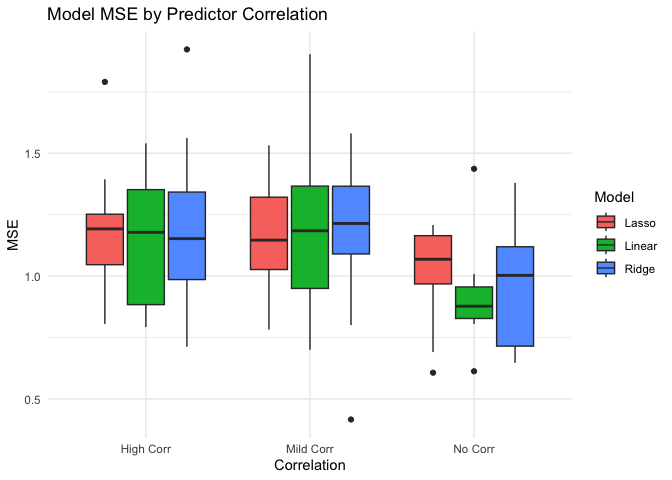
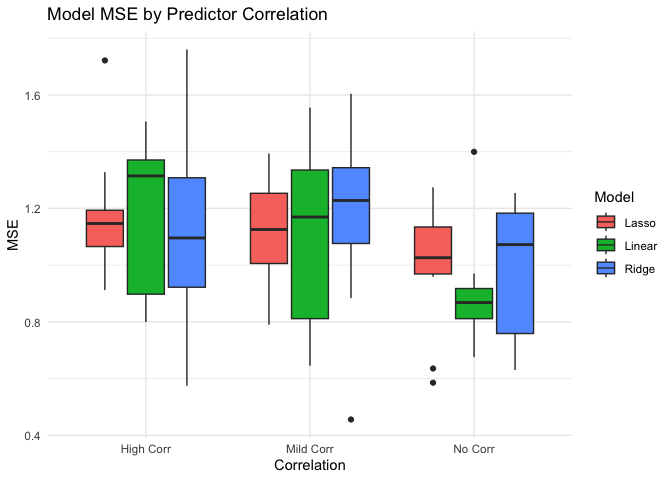
md update MCsimR

diff --git a/MCsimR.md b/MCsimR.md
@@ -54,7 +54,7 @@ set.seed(111)
 ``` r
 generate_data <- function(n = 100, correlation = 0.0) {
   sigma <- matrix(c(1, correlation, correlation, 1), nrow = 2)
-  predictors <- MASS::mvrnorm(n, mu = c(0, 0), Sigma = sigma)
+  predictors <- mvtnorm::rmvnorm(n, mean = c(0, 0), sigma = sigma, method = "eigen")
   x1 <- predictors[, 1]
   x2 <- predictors[, 2]
   noise <- rnorm(n)
@@ -125,15 +125,15 @@ summary
     # A tibble: 9 × 4
       Model  label     Mean_MSE SD_MSE
       <chr>  <chr>        <dbl>  <dbl>
-    1 Lasso  High Corr    1.19   0.276
-    2 Lasso  Mild Corr    1.14   0.245
-    3 Lasso  No Corr      1.01   0.208
-    4 Linear High Corr    1.14   0.269
-    5 Linear Mild Corr    1.18   0.377
-    6 Linear No Corr      0.918  0.212
-    7 Ridge  High Corr    1.19   0.367
-    8 Ridge  Mild Corr    1.16   0.341
-    9 Ridge  No Corr      0.956  0.244
+    1 Lasso  High Corr    1.17   0.231
+    2 Lasso  Mild Corr    1.11   0.211
+    3 Lasso  No Corr      0.992  0.222
+    4 Linear High Corr    1.17   0.269
+    5 Linear Mild Corr    1.12   0.326
+    6 Linear No Corr      0.900  0.194
+    7 Ridge  High Corr    1.15   0.369
+    8 Ridge  Mild Corr    1.18   0.330
+    9 Ridge  No Corr      0.982  0.237
 
 ## Visualization (Optional)
 
@@ -145,3 +145,82 @@ ggplot(results, aes(x = label, y = MSE, fill = Model)) +
 ```
 
 ![](MCsimR.markdown_strict_files/figure-markdown_strict/unnamed-chunk-5-1.png)
+
+## Statistical comparison of results
+
+``` r
+alpha <- 0.05
+
+# Fit the ANOVA model
+model <- aov(MSE ~ label + Model, data = results)
+
+plot(model)
+```
+
+![](MCsimR.markdown_strict_files/figure-markdown_strict/unnamed-chunk-6-1.png)
+
+![](MCsimR.markdown_strict_files/figure-markdown_strict/unnamed-chunk-6-2.png)
+
+![](MCsimR.markdown_strict_files/figure-markdown_strict/unnamed-chunk-6-3.png)
+
+![](MCsimR.markdown_strict_files/figure-markdown_strict/unnamed-chunk-6-4.png)
+
+``` r
+hist(model$residuals)
+```
+
+![](MCsimR.markdown_strict_files/figure-markdown_strict/unnamed-chunk-6-5.png)
+
+``` r
+# Perform Tukey's HSD for multiple comparisons with alpha 
+tukey_results <- TukeyHSD(model, conf.level = 1 - alpha) 
+
+# View the results
+plot(tukey_results)
+```
+
+![](MCsimR.markdown_strict_files/figure-markdown_strict/unnamed-chunk-6-6.png)
+
+![](MCsimR.markdown_strict_files/figure-markdown_strict/unnamed-chunk-6-7.png)
+
+What if we don’t have normal residuals?
+
+``` r
+# Kruskal-Wallis for 'label'
+kruskal.test(MSE ~ label, data = results)
+```
+
+
+        Kruskal-Wallis rank sum test
+
+    data:  MSE by label
+    Kruskal-Wallis chi-squared = 10.002, df = 2, p-value = 0.006732
+
+``` r
+# Kruskal-Wallis for 'Model'
+kruskal.test(MSE ~ Model, data = results)
+```
+
+
+        Kruskal-Wallis rank sum test
+
+    data:  MSE by Model
+    Kruskal-Wallis chi-squared = 0.38769, df = 2, p-value = 0.8238
+
+``` r
+# OR install https://github.com/cran/ARTool
+
+# Pairwise comparisons for 'label'
+pairwise.wilcox.test(results$MSE, results$label, p.adjust.method = "holm")
+```
+
+
+        Pairwise comparisons using Wilcoxon rank sum exact test 
+
+    data:  results$MSE and results$label 
+
+              High Corr Mild Corr
+    Mild Corr 0.866     -        
+    No Corr   0.014     0.015    
+
+    P value adjustment method: holm 
